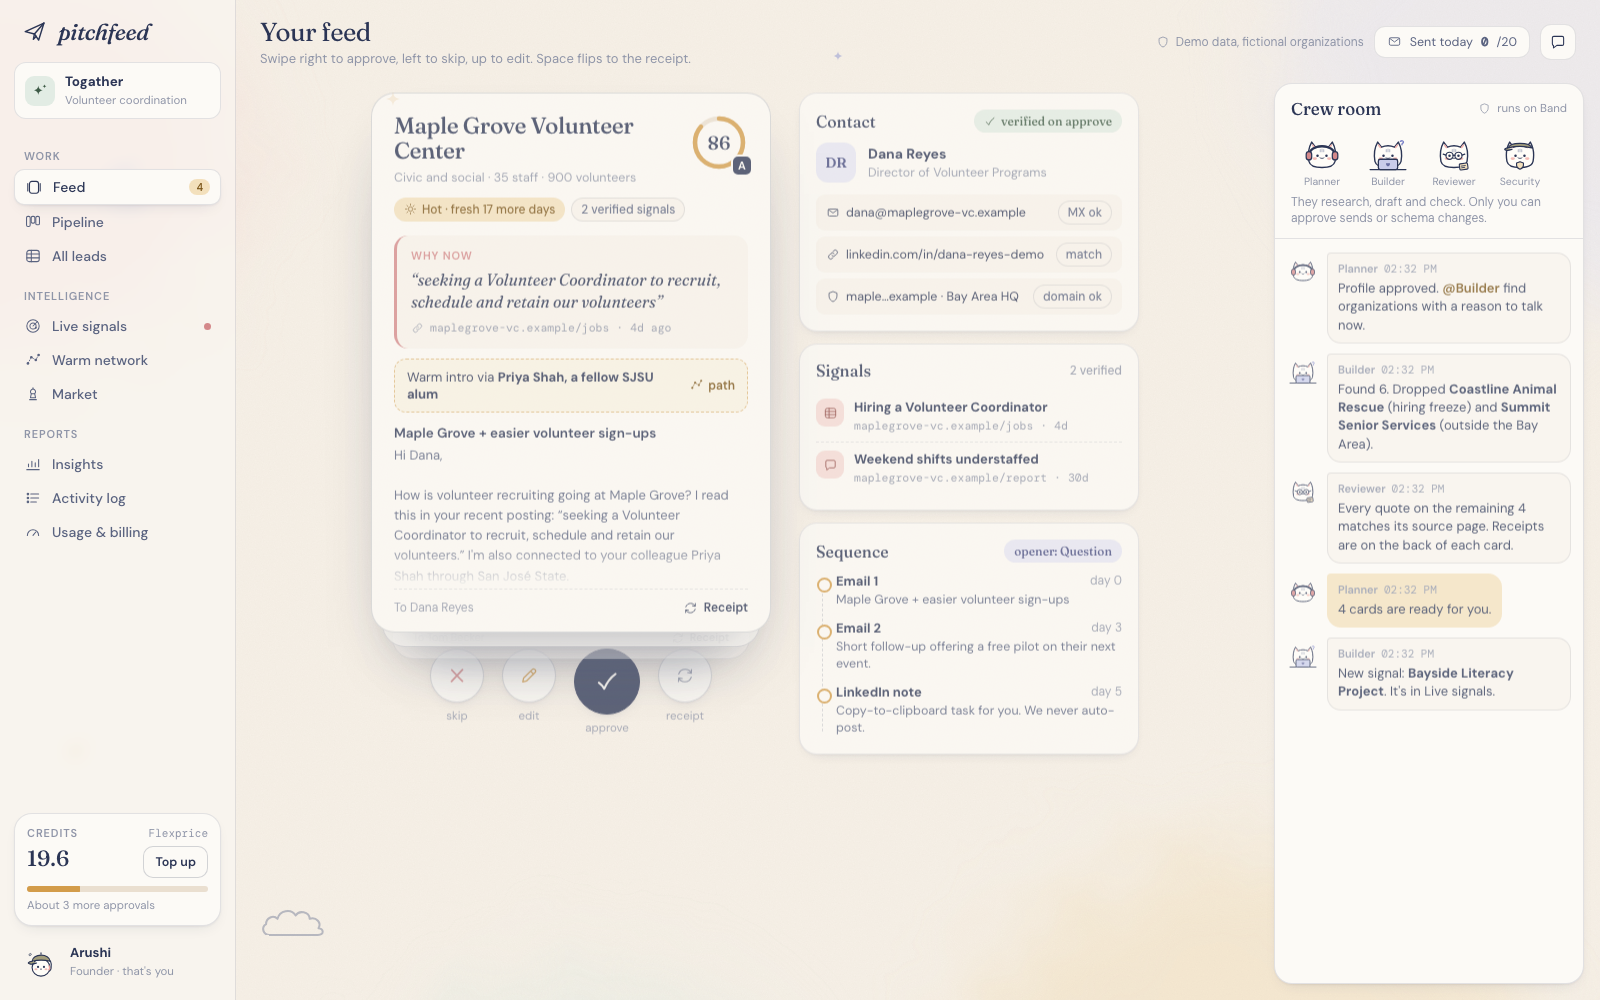
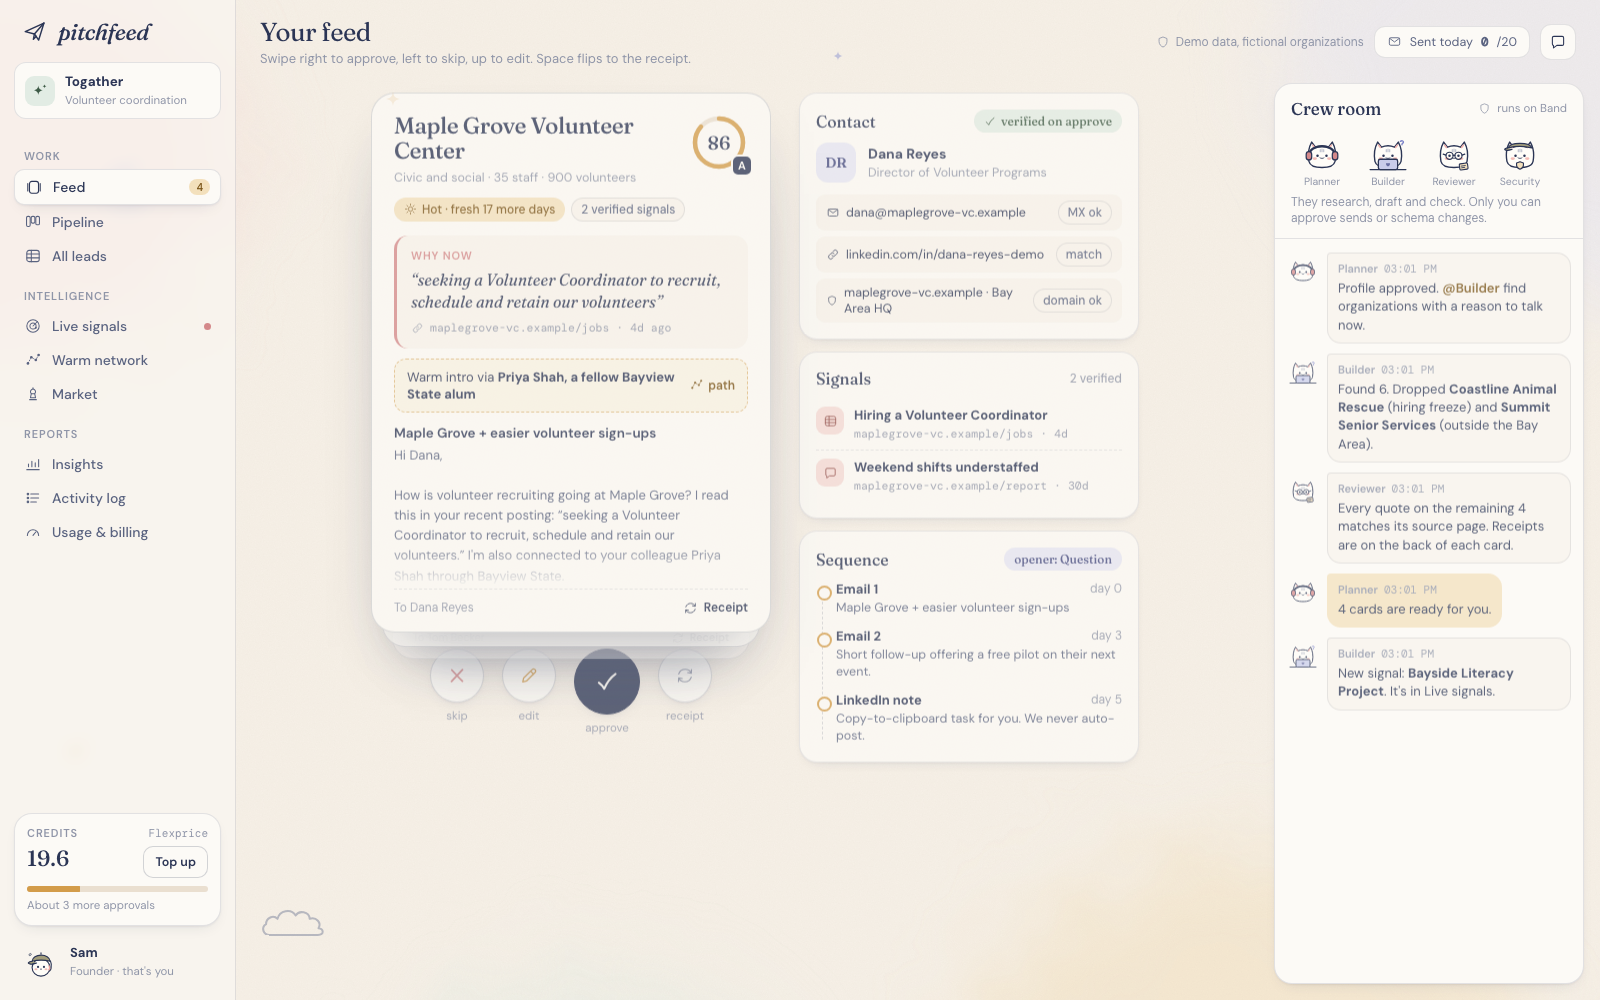
Use a fictional demo founder; visitor's own name shows in the app

diff --git a/web/lib/demo-data.ts b/web/lib/demo-data.ts
@@ -26,28 +26,28 @@ const RAW_LEADS: RawLead[] = [
   buyer:"Dana Reyes",title:"Director of Volunteer Programs",email:"dana@maplegrove-vc.example",linkedin:"linkedin.com/in/dana-reyes-demo",
   signals:[{t:"Hiring a Volunteer Coordinator",q:"seeking a Volunteer Coordinator to recruit, schedule and retain our volunteers",src:"maplegrove-vc.example/jobs",days:4,k:"hiring"},
            {t:"Weekend shifts understaffed",q:"weekend shifts were understaffed more than a third of the time",src:"maplegrove-vc.example/report",days:30,k:"pain"}],
-  path:["You","San José State","Priya Shah","Maple Grove","Dana Reyes"],via:"Priya Shah, a fellow SJSU alum",variant:"Question",
+  path:["You","Bayview State","Priya Shah","Maple Grove","Dana Reyes"],via:"Priya Shah, a fellow Bayview State alum",variant:"Question",
   subject:"Maple Grove + easier volunteer sign-ups",
-  body:"Hi Dana,\n\nHow is volunteer recruiting going at Maple Grove? I read this in your recent posting: “seeking a Volunteer Coordinator to recruit, schedule and retain our volunteers.” I'm also connected to your colleague Priya Shah through San José State.\n\nI'm building Togather: volunteers find shifts in a short video feed, sign up in one tap and get a reminder plus a quick role video before they arrive, so fewer no-shows for your coordinators.\n\nWould a 2-minute demo video be useful for your team?\n\nArushi, Togather"},
+  body:"Hi Dana,\n\nHow is volunteer recruiting going at Maple Grove? I read this in your recent posting: “seeking a Volunteer Coordinator to recruit, schedule and retain our volunteers.” I'm also connected to your colleague Priya Shah through Bayview State.\n\nI'm building Togather: volunteers find shifts in a short video feed, sign up in one tap and get a reminder plus a quick role video before they arrive, so fewer no-shows for your coordinators.\n\nWould a 2-minute demo video be useful for your team?\n\nSam, Togather"},
  {id:"l2",company:"Riverside Food Bank Network",industry:"Food banks",size:"80 staff · 2,000 volunteers",score:83,tier:"A",temp:"warm",days:9,
   buyer:"Alicia Chen",title:"Volunteer Manager",email:"alicia@riversidefoodbank.example",linkedin:"linkedin.com/in/alicia-chen-demo",
   signals:[{t:"Holiday volunteer shortage",q:"facing a shortage of volunteers heading into the holiday season",src:"riversidefoodbank.example/press",days:9,k:"pain"},
            {t:"New operations grant",q:"awarded a community operations grant",src:"riversidefoodbank.example/grant",days:20,k:"funding"}],
-  path:["You","CodePath","Sam Ortiz","Riverside","Alicia Chen"],via:"Sam Ortiz, from your CodePath cohort",variant:"Quote",
+  path:["You","LaunchLab","Sam Ortiz","Riverside","Alicia Chen"],via:"Sam Ortiz, from your LaunchLab cohort",variant:"Quote",
   subject:"Holiday volunteers at Riverside",
-  body:"Hi Alicia,\n\nI came across this from Riverside: “facing a shortage of volunteers heading into the holiday season.” I'm also connected to your colleague Sam Ortiz through CodePath.\n\nI'm building Togather so volunteers can find a shift in seconds and get reminded before they show up. It's made for exactly this kind of crunch.\n\nWould it help if I set it up free for one of your holiday drives?\n\nArushi, Togather"},
+  body:"Hi Alicia,\n\nI came across this from Riverside: “facing a shortage of volunteers heading into the holiday season.” I'm also connected to your colleague Sam Ortiz through LaunchLab.\n\nI'm building Togather so volunteers can find a shift in seconds and get reminded before they show up. It's made for exactly this kind of crunch.\n\nWould it help if I set it up free for one of your holiday drives?\n\nSam, Togather"},
  {id:"l3",company:"Harborview Kiwanis Club",industry:"Civic and social",size:"60 members",score:72,tier:"A",temp:"hot",days:6,
   buyer:"Tom Becker",title:"Club President",email:"tom@harborviewkiwanis.example",linkedin:"linkedin.com/in/tom-becker-demo",
   signals:[{t:"Spring cleanup needs 120 volunteers",q:"we will need 120 volunteers for our spring coastal cleanup",src:"harborviewkiwanis.example/news",days:6,k:"event"}],
-  path:["You","Student Union","Leo Martin","Harborview","Tom Becker"],via:"Leo Martin, who also worked at the Student Union",variant:"Quote",
+  path:["You","Campus Union","Leo Martin","Harborview","Tom Becker"],via:"Leo Martin, who also worked at the Campus Union",variant:"Quote",
   subject:"120 volunteers for the coastal cleanup",
-  body:"Hi Tom,\n\nI came across this from Harborview Kiwanis: “we will need 120 volunteers for our spring coastal cleanup.” I'm also connected to your member Leo Martin through the Student Union of SJSU.\n\nTogather is piloting with another Kiwanis club. Volunteers sign up in one tap, see what their role looks like, and get a reminder the day before.\n\nWant me to set up the cleanup on it, no cost?\n\nArushi, Togather"},
+  body:"Hi Tom,\n\nI came across this from Harborview Kiwanis: “we will need 120 volunteers for our spring coastal cleanup.” I'm also connected to your member Leo Martin through the Campus Union at Bayview State.\n\nTogather is piloting with another Kiwanis club. Volunteers sign up in one tap, see what their role looks like, and get a reminder the day before.\n\nWant me to set up the cleanup on it, no cost?\n\nSam, Togather"},
  {id:"l4",company:"Eastside Youth Mentors",industry:"Family services",size:"12 staff · 150 mentors",score:59,tier:"B",temp:"warm",days:15,
   buyer:"Marcus Lee",title:"Executive Director",email:"marcus@eastsidementors.example",linkedin:null,
   signals:[{t:"Grant to double mentors",q:"grant will help us double the number of volunteer mentors",src:"eastsidementors.example/blog",days:15,k:"funding"}],
   path:null,via:null,variant:"Question",
   subject:"Doubling your mentor program",
-  body:"Hi Marcus,\n\nHow are you planning to recruit all those new mentors? I read that your new “grant will help us double the number of volunteer mentors.”\n\nI'm building Togather to make volunteer sign-ups and onboarding feel easy, with short role videos so new mentors know what to expect.\n\nOpen to a 15-minute call next week?\n\nArushi, Togather"}
+  body:"Hi Marcus,\n\nHow are you planning to recruit all those new mentors? I read that your new “grant will help us double the number of volunteer mentors.”\n\nI'm building Togather to make volunteer sign-ups and onboarding feel easy, with short role videos so new mentors know what to expect.\n\nOpen to a 15-minute call next week?\n\nSam, Togather"}
 ];
 export const makeLeads = (): Lead[] => RAW_LEADS.map((l) => ({ ...l, signals: l.signals.map((s) => ({ ...s })), status: "pending", stage: "matched", by: "crew" }));
 export const INCOMING: Incoming[] = [
@@ -65,10 +65,10 @@ export const STAGES: [Stage, string][] = [["matched","Matched"],["contacted","Co
 export const HIST = {matched:22,contacted:14,replied:5,meeting:3,closed:1,ind:{"Civic and social":[8,4],"Food banks":[4,1],"Family services":[2,0]},tier:{A:[9,4],B:[5,1]},ab:{Quote:[7,3],Question:[7,2]},by:{you:14,crew:22}};
 
 export const INTAKE = {
-  product: "Togather", website: "togather.example",
+  founder: "Sam Rivera", product: "Togather", website: "togather.example",
   what: "Volunteer coordination for community groups. Volunteers find shifts in a short-video feed, sign up in one tap and get reminders, so fewer no-shows.",
   pricing: "Free under 50 volunteers, $49/mo after", customers: "1 Kiwanis club (pilot)",
-  schools: "San José State, CodePath, AI4ALL", workplaces: "Student Union of SJSU",
+  schools: "Bayview State, LaunchLab, Code Commons", workplaces: "Campus Union at Bayview State",
 };
 export type Intake = typeof INTAKE;
 

diff --git a/web/components/Intake.tsx b/web/components/Intake.tsx
@@ -24,18 +24,19 @@ export default function Intake({ onStart }: { onStart: () => void }) {
             </div>
             <div className="form card-s">
               <div className="row2">
+                <div className="field"><label className="label">Your name</label><input {...f("founder")} /></div>
                 <div className="field"><label className="label">Product</label><input {...f("product")} /></div>
-                <div className="field"><label className="label">Website</label><input {...f("website")} /></div>
               </div>
               <div className="field"><label className="label">What does it do?</label><textarea rows={2} {...f("what")} /></div>
               <div className="row2">
+                <div className="field"><label className="label">Website</label><input {...f("website")} /></div>
                 <div className="field"><label className="label">Pricing</label><input {...f("pricing")} /></div>
-                <div className="field"><label className="label">Current customers</label><input {...f("customers")} /></div>
               </div>
               <div className="row2">
+                <div className="field"><label className="label">Current customers</label><input {...f("customers")} /></div>
                 <div className="field"><label className="label">Schools &amp; programs</label><input {...f("schools")} /></div>
-                <div className="field"><label className="label">Past workplaces</label><input {...f("workplaces")} /></div>
               </div>
+              <div className="field"><label className="label">Past workplaces</label><input {...f("workplaces")} /></div>
               <div style={{ display: "flex", justifyContent: "space-between", alignItems: "center", marginTop: 4 }}>
                 <span className="faint" style={{ fontSize: 12.5 }}>Your background is only used to find warm intros.</span>
                 <button className="btn btn-ink" id="startBtn" onClick={onStart}>Find my customers <Icon id="i-arrowR" size={16} /></button>

diff --git a/web/components/Sidebar.tsx b/web/components/Sidebar.tsx
@@ -13,6 +13,7 @@ export default function Sidebar() {
   const go = useApp((s) => s.go);
   const credits = useApp((s) => s.credits);
   const product = useApp((s) => s.intake.product);
+  const founder = useApp((s) => s.intake.founder.split(" ")[0] || "You");
   const topUp = useApp((s) => s.topUp);
   const nFeed = useApp((s) => pending(s.leads).length);
   const n = Math.floor(credits / 6);
@@ -40,7 +41,7 @@ export default function Sidebar() {
           <div className="bar"><i style={{ width: `${Math.min(100, (credits / 20) * 100)}%`, background: credits < 6 ? "var(--rose)" : "var(--gold)" }} /></div>
           <div className="faint" style={{ fontSize: 11.5 }}>{n ? `About ${n} more approval${n > 1 ? "s" : ""}` : "Top up to keep sending"}</div>
         </div>
-        <div className="me"><Char id="c-you" width={38} /><div><b>Arushi</b><small>Founder · that&apos;s you</small></div></div>
+        <div className="me"><Char id="c-you" width={38} /><div><b>{founder}</b><small>Founder · that&apos;s you</small></div></div>
       </div>
     </aside>
   );

diff --git a/web/app/api/draft/route.ts b/web/app/api/draft/route.ts
@@ -4,7 +4,7 @@ import { HYPE, type Lead } from "@/lib/demo-data";
 
 const SYSTEM = `You write a short first-touch email for a founder.
 Use ONLY the one cited signal you are given: quote it verbatim inside “curly quotes”. Invent no other facts, numbers or names.
-Mention the warm intro if one is given. 70-120 words, friendly, no hype words (${HYPE.join(", ")}), no links. End with one question, then a sign-off line "Arushi, Togather".
+Mention the warm intro if one is given. 70-120 words, friendly, no hype words (${HYPE.join(", ")}), no links. End with one question, then a sign-off line "Sam, Togather".
 Return ONLY JSON: {"body": "..."} with \\n for line breaks.`;
 
 export async function POST(req: Request) {

diff --git a/web/lib/constellation.ts b/web/lib/constellation.ts
@@ -2,7 +2,7 @@
 import type { Lead } from "./demo-data";
 
 type N = { id: string; kind: string; x: number; y: number; z: number };
-const ORGS = ["San José State", "CodePath", "Student Union", "AI4ALL"];
+const ORGS = ["Bayview State", "LaunchLab", "Campus Union", "Code Commons"];
 
 export function createConstellation(canvas: HTMLCanvasElement, leads: Lead[], opts: { reveal?: boolean } = {}) {
   const ctx = canvas.getContext("2d")!;

diff --git a/docs/DEMO_SCRIPT.md b/docs/DEMO_SCRIPT.md
@@ -10,7 +10,7 @@ Record at 1440×900 or larger, browser zoom 100%, crew room open. Start from a f
 | 0:28–0:42 | **ICP** | Point at confidence bars and rule-outs. Click **Add** on "University service clubs". Click **Approve profile and find leads**. | "Every field has a confidence score. I can add an adjacent segment before anything runs." |
 | 0:42–0:52 | **Feed** | Let the crew room messages land ("Dropped Coastline… hiring freeze"). | "Six found, two dropped because the facts didn't check out." |
 | 0:52–1:02 | **Flip receipt** | Press **Space** (or Receipt). Point at verified source, checks, sign-offs, 6.1 credits. Flip back. | "Every claim comes with a receipt." |
-| 1:02–1:10 | **Warm path** | Click **path** on the card. Drag to spin. Close. | "Gold is the shortest path from me to Dana, through an SJSU alum." |
+| 1:02–1:10 | **Warm path** | Click **path** on the card. Drag to spin. Close. | "Gold is the shortest path from me to Dana, through an Bayview State alum." |
 | 1:10–1:22 | **Edit + block** | Press **↑**. Type "We guarantee results." The hype check turns red and Approve disables. Click **Redraft from signal**, then **Approve and send**. | "Hype gets blocked. The redraft uses only the cited quote." |
 | 1:22–1:32 | **Approve 3** | Press **→** twice more (3 sent total). Watch Sent today and credits drop. | "Only I can approve. Each one costs six credits: five to verify the email, one to send." |
 | 1:32–1:42 | **Credit gate** | Press **→** on the 4th card. Credit modal opens. Click **Add 30 credits**. | "Out of credits, Security pauses enrichment. Metered by Flexprice, pay per lead, not per seat." |

diff --git a/docs/ARCHITECTURE.md b/docs/ARCHITECTURE.md
@@ -30,7 +30,7 @@ Intake → ICP (LLM, confidence per field) → founder approves
 | `Product` | id, name | What you sell (Togather) |
 | `Competitor` | id, name, category | Alternatives buyers could pick |
 | `Signal` | id, type, text, url, days_ago | A cited reason to talk now (hiring, event, pain, funding) |
-| `Org` | id, name, kind | Schools and programs (SJSU, CodePath, AI4ALL) |
+| `Org` | id, name, kind | Schools and programs (Bayview State, LaunchLab, Code Commons) |
 
 **Edges**
 
